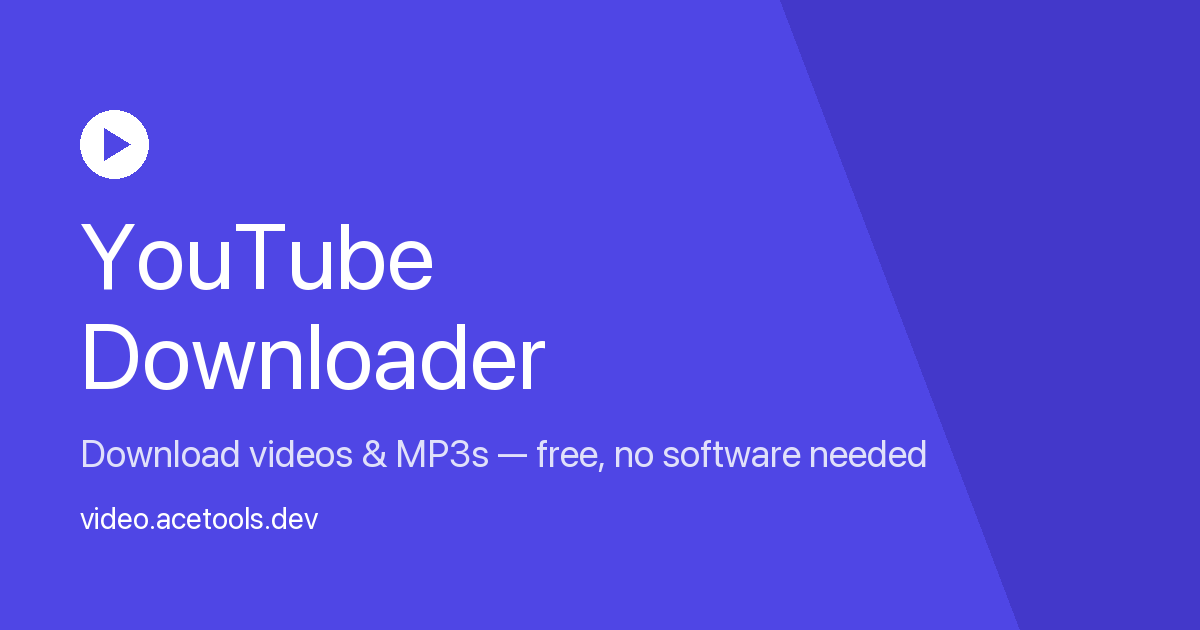
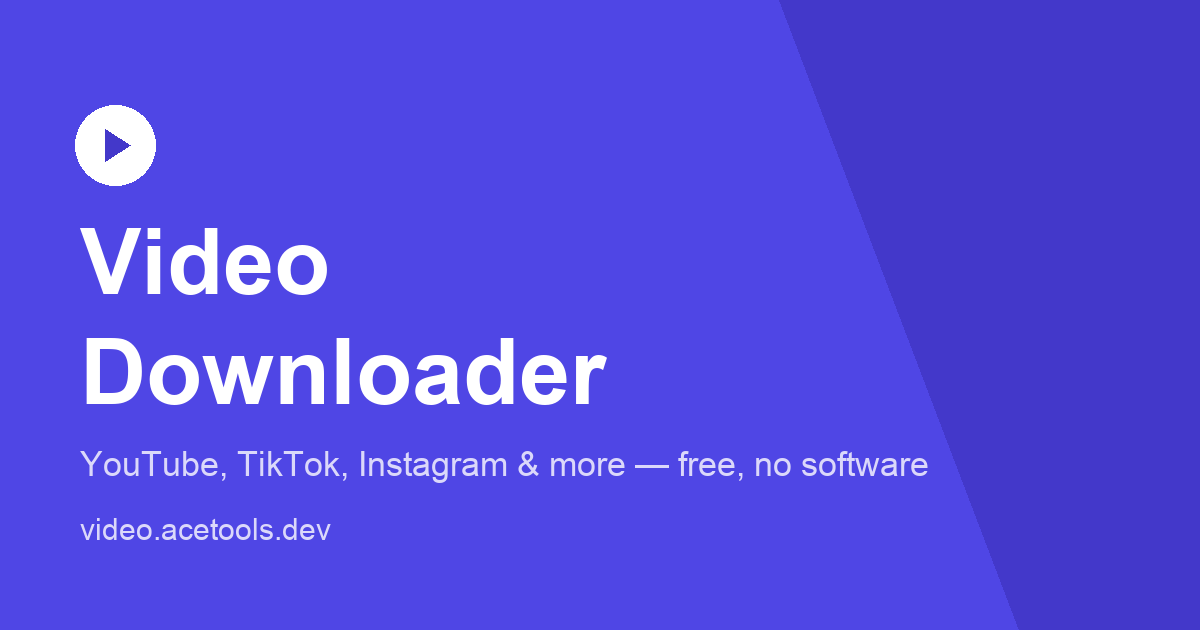
Rebrand to Video Downloader and advertise multi-site support
The app already downloads from any site yt-dlp supports, not just
YouTube, so branding/SEO/copy now reflect that: renamed across all
templates, updated title/meta/OG/twitter tags and JSON-LD, added a
supported-sites badge row and updated the og:image graphic
(YouTube, TikTok, Instagram, Facebook, Twitter/X, Vimeo, SoundCloud,
Dailymotion).

diff --git a/templates/index.html b/templates/index.html
@@ -7,29 +7,29 @@
 <link rel="icon" type="image/png" sizes="32x32" href="{{ url_for('static', filename='favicon-32x32.png') }}">
 <link rel="icon" type="image/png" sizes="16x16" href="{{ url_for('static', filename='favicon-16x16.png') }}">
 <link rel="apple-touch-icon" sizes="180x180" href="{{ url_for('static', filename='apple-touch-icon.png') }}">
-<title>YouTube Downloader &mdash; Download YouTube Videos &amp; MP3s Free</title>
-<meta name="description" content="Download YouTube videos and audio (MP3) free, in the resolution you want. No software to install &mdash; paste a link and download instantly. Playlist support for subscribers.">
-<meta name="keywords" content="youtube downloader, youtube to mp3, youtube video downloader, download youtube videos, youtube to mp4, youtube playlist downloader">
+<title>Video Downloader &mdash; Download Videos from YouTube, TikTok, Instagram &amp; More</title>
+<meta name="description" content="Download videos and audio (MP3) free from YouTube, TikTok, Instagram, Facebook, Twitter/X, Vimeo, SoundCloud, and Dailymotion, in the resolution you want. No software to install &mdash; paste a link and download instantly. Playlist support for subscribers.">
+<meta name="keywords" content="video downloader, youtube downloader, tiktok downloader, instagram video downloader, facebook video downloader, twitter video downloader, vimeo downloader, video to mp3, download videos online">
 <link rel="canonical" href="{{ base_url }}/">
 
 <meta property="og:type" content="website">
-<meta property="og:title" content="YouTube Downloader — Download YouTube Videos & MP3s Free">
-<meta property="og:description" content="Download YouTube videos and audio (MP3) free, in the resolution you want. No software to install — paste a link and download instantly.">
+<meta property="og:title" content="Video Downloader — Download Videos from YouTube, TikTok, Instagram & More">
+<meta property="og:description" content="Download videos and audio (MP3) free from YouTube, TikTok, Instagram, Facebook, Twitter/X, Vimeo, SoundCloud, and Dailymotion. No software to install — paste a link and download instantly.">
 <meta property="og:url" content="{{ base_url }}/">
 <meta property="og:image" content="{{ base_url }}/static/og-image.png">
 <meta property="og:image:width" content="1200">
 <meta property="og:image:height" content="630">
 
 <meta name="twitter:card" content="summary_large_image">
-<meta name="twitter:title" content="YouTube Downloader — Download YouTube Videos & MP3s Free">
-<meta name="twitter:description" content="Download YouTube videos and audio (MP3) free, in the resolution you want. No software to install — paste a link and download instantly.">
+<meta name="twitter:title" content="Video Downloader — Download Videos from YouTube, TikTok, Instagram & More">
+<meta name="twitter:description" content="Download videos and audio (MP3) free from YouTube, TikTok, Instagram, Facebook, Twitter/X, Vimeo, SoundCloud, and Dailymotion. No software to install — paste a link and download instantly.">
 <meta name="twitter:image" content="{{ base_url }}/static/og-image.png">
 
 <script type="application/ld+json">
 {
   "@context": "https://schema.org",
   "@type": "WebApplication",
-  "name": "YouTube Downloader",
+  "name": "Video Downloader",
   "url": "{{ base_url }}/",
   "image": "{{ base_url }}/static/og-image.png",
   "applicationCategory": "MultimediaApplication",
@@ -39,7 +39,7 @@
     "price": "0",
     "priceCurrency": "USD"
   },
-  "description": "Download YouTube videos and audio (MP3) free, in the resolution you want. No software to install."
+  "description": "Download videos and audio (MP3) free from YouTube, TikTok, Instagram, Facebook, Twitter/X, Vimeo, SoundCloud, and Dailymotion, in the resolution you want. No software to install."
 }
 </script>
 
@@ -59,7 +59,7 @@
 <body>
   <div class="nav">
     <div class="nav-inner">
-      <a href="{{ url_for('index') }}" class="brand"><span class="brand-mark"></span>YouTube Downloader</a>
+      <a href="{{ url_for('index') }}" class="brand"><span class="brand-mark"></span>Video Downloader</a>
       <span class="nav-links">
         {% if current_user.is_authenticated %}
           {{ current_user.email }} <a href="{{ url_for('history') }}">History</a> <a href="{{ url_for('billing.account') }}">Account</a> <a href="{{ url_for('donations.donate') }}">Donate</a> <a href="{{ url_for('reports.report_issue') }}">Report an issue</a> <a href="{{ url_for('auth.logout') }}">Log out</a>
@@ -72,12 +72,23 @@
 
   <div class="page page-wide hero">
     <div class="badge-pill"><span class="dot"></span>No installs &middot; files deleted after download</div>
-    <h1>Download any YouTube video<span class="accent-dot">.</span></h1>
+    <h1>Download videos from anywhere<span class="accent-dot">.</span></h1>
     <p class="subtitle">Paste a link, pick MP4 or MP3, and it starts instantly with a live progress bar.</p>
+
+    <div class="chips" style="justify-content: center; margin-top: 10px;">
+      <span class="chip">YouTube</span>
+      <span class="chip">TikTok</span>
+      <span class="chip">Instagram</span>
+      <span class="chip">Facebook</span>
+      <span class="chip">Twitter / X</span>
+      <span class="chip">Vimeo</span>
+      <span class="chip">SoundCloud</span>
+      <span class="chip">Dailymotion</span>
+    </div>
 
     <div class="card tool-card">
       <div class="row" id="urlRow">
-        <input type="text" id="url" placeholder="https://www.youtube.com/watch?v=...">
+        <input type="text" id="url" placeholder="Paste a video URL — YouTube, TikTok, Instagram, and more">
         <button id="continueBtn">Continue</button>
       </div>
 
@@ -183,23 +194,24 @@
     <section style="margin-top: 48px; text-align: left;">
       <h2 style="font-size: 1.2rem; font-weight: 600;">How it works</h2>
       <p class="subtitle">
-        Paste any YouTube video URL above and choose a format &mdash; MP4 video in the resolution
-        you want, or MP3 audio only. Click Download and the file starts processing right away,
-        with a live progress bar so you can see exactly how far along it is. No account, no
-        software installs, no browser extensions.
+        Paste a video URL above from YouTube, TikTok, Instagram, Facebook, Twitter/X, Vimeo,
+        SoundCloud, or Dailymotion and choose a format &mdash; MP4 video in the resolution you
+        want, or MP3 audio only. Click Download and the file starts processing right away, with
+        a live progress bar so you can see exactly how far along it is. No account, no software
+        installs, no browser extensions.
       </p>
 
       <h2 style="font-size: 1.2rem; font-weight: 600;">Video and audio downloads</h2>
       <p class="subtitle">
-        Download YouTube videos as MP4 files in the best available quality, or extract just the
-        audio as an MP3. Free accounts get a handful of downloads per day at a generous length
-        limit &mdash; enough for the vast majority of single videos.
+        Download videos as MP4 files in the best available quality, or extract just the audio as
+        an MP3. Free accounts get a handful of downloads per day at a generous length limit
+        &mdash; enough for the vast majority of single videos.
       </p>
 
       <h2 style="font-size: 1.2rem; font-weight: 600;">Playlist downloads</h2>
       <p class="subtitle">
-        Subscribers can download entire YouTube playlists in one go, with no daily limit and no
-        length cap on individual videos.
+        Subscribers can download entire playlists in one go, with no daily limit and no length
+        cap on individual videos.
       </p>
     </section>
   </div>

diff --git a/templates/report_issue.html b/templates/report_issue.html
@@ -8,7 +8,7 @@
 <link rel="icon" type="image/png" sizes="16x16" href="{{ url_for('static', filename='favicon-16x16.png') }}">
 <link rel="apple-touch-icon" sizes="180x180" href="{{ url_for('static', filename='apple-touch-icon.png') }}">
 <meta name="robots" content="noindex, follow">
-<title>Report an issue - YouTube Downloader</title>
+<title>Report an issue - Video Downloader</title>
 <link rel="preconnect" href="https://fonts.googleapis.com">
 <link rel="preconnect" href="https://fonts.gstatic.com" crossorigin>
 <link href="https://fonts.googleapis.com/css2?family=Space+Grotesk:wght@500;600;700&family=IBM+Plex+Sans:wght@400;500;600&family=IBM+Plex+Mono:wght@400;500&display=swap" rel="stylesheet">
@@ -17,7 +17,7 @@
 <body>
   <div class="nav">
     <div class="nav-inner">
-      <a href="{{ url_for('index') }}" class="brand"><span class="brand-mark"></span>YouTube Downloader</a>
+      <a href="{{ url_for('index') }}" class="brand"><span class="brand-mark"></span>Video Downloader</a>
       <span class="nav-links">
         {{ current_user.email }} <a href="{{ url_for('history') }}">History</a> <a href="{{ url_for('billing.account') }}">Account</a> <a href="{{ url_for('reports.report_issue') }}">Report an issue</a> <a href="{{ url_for('auth.logout') }}">Log out</a>
       </span>

diff --git a/templates/account.html b/templates/account.html
@@ -8,7 +8,7 @@
 <link rel="icon" type="image/png" sizes="16x16" href="{{ url_for('static', filename='favicon-16x16.png') }}">
 <link rel="apple-touch-icon" sizes="180x180" href="{{ url_for('static', filename='apple-touch-icon.png') }}">
 <meta name="robots" content="noindex, follow">
-<title>Account - YouTube Downloader</title>
+<title>Account - Video Downloader</title>
 <link rel="preconnect" href="https://fonts.googleapis.com">
 <link rel="preconnect" href="https://fonts.gstatic.com" crossorigin>
 <link href="https://fonts.googleapis.com/css2?family=Space+Grotesk:wght@500;600;700&family=IBM+Plex+Sans:wght@400;500;600&family=IBM+Plex+Mono:wght@400;500&display=swap" rel="stylesheet">
@@ -17,7 +17,7 @@
 <body>
   <div class="nav">
     <div class="nav-inner">
-      <a href="{{ url_for('index') }}" class="brand"><span class="brand-mark"></span>YouTube Downloader</a>
+      <a href="{{ url_for('index') }}" class="brand"><span class="brand-mark"></span>Video Downloader</a>
       <span class="nav-links">
         {{ current_user.email }} <a href="{{ url_for('history') }}">History</a> <a href="{{ url_for('billing.account') }}">Account</a> <a href="{{ url_for('reports.report_issue') }}">Report an issue</a> <a href="{{ url_for('auth.logout') }}">Log out</a>
       </span>

diff --git a/templates/history.html b/templates/history.html
@@ -8,7 +8,7 @@
 <link rel="icon" type="image/png" sizes="16x16" href="{{ url_for('static', filename='favicon-16x16.png') }}">
 <link rel="apple-touch-icon" sizes="180x180" href="{{ url_for('static', filename='apple-touch-icon.png') }}">
 <meta name="robots" content="noindex, follow">
-<title>History - YouTube Downloader</title>
+<title>History - Video Downloader</title>
 <link rel="preconnect" href="https://fonts.googleapis.com">
 <link rel="preconnect" href="https://fonts.gstatic.com" crossorigin>
 <link href="https://fonts.googleapis.com/css2?family=Space+Grotesk:wght@500;600;700&family=IBM+Plex+Sans:wght@400;500;600&family=IBM+Plex+Mono:wght@400;500&display=swap" rel="stylesheet">
@@ -17,7 +17,7 @@
 <body>
   <div class="nav">
     <div class="nav-inner">
-      <a href="{{ url_for('index') }}" class="brand"><span class="brand-mark"></span>YouTube Downloader</a>
+      <a href="{{ url_for('index') }}" class="brand"><span class="brand-mark"></span>Video Downloader</a>
       <span class="nav-links">
         {{ current_user.email }} <a href="{{ url_for('history') }}">History</a> <a href="{{ url_for('billing.account') }}">Account</a> <a href="{{ url_for('reports.report_issue') }}">Report an issue</a> <a href="{{ url_for('auth.logout') }}">Log out</a>
       </span>

diff --git a/templates/admin.html b/templates/admin.html
@@ -8,7 +8,7 @@
 <link rel="icon" type="image/png" sizes="16x16" href="{{ url_for('static', filename='favicon-16x16.png') }}">
 <link rel="apple-touch-icon" sizes="180x180" href="{{ url_for('static', filename='apple-touch-icon.png') }}">
 <meta name="robots" content="noindex, nofollow">
-<title>Admin - YouTube Downloader</title>
+<title>Admin - Video Downloader</title>
 <link rel="preconnect" href="https://fonts.googleapis.com">
 <link rel="preconnect" href="https://fonts.gstatic.com" crossorigin>
 <link href="https://fonts.googleapis.com/css2?family=Space+Grotesk:wght@500;600;700&family=IBM+Plex+Sans:wght@400;500;600&family=IBM+Plex+Mono:wght@400;500&display=swap" rel="stylesheet">
@@ -20,7 +20,7 @@
 <body>
   <div class="nav">
     <div class="nav-inner">
-      <a href="{{ url_for('index') }}" class="brand"><span class="brand-mark"></span>YouTube Downloader</a>
+      <a href="{{ url_for('index') }}" class="brand"><span class="brand-mark"></span>Video Downloader</a>
       <span class="nav-links">
         {{ current_user.email }} <a href="{{ url_for('history') }}">History</a> <a href="{{ url_for('billing.account') }}">Account</a> <a href="{{ url_for('reports.report_issue') }}">Report an issue</a> <a href="{{ url_for('auth.logout') }}">Log out</a>
       </span>

diff --git a/templates/donate.html b/templates/donate.html
@@ -8,7 +8,7 @@
 <link rel="icon" type="image/png" sizes="16x16" href="{{ url_for('static', filename='favicon-16x16.png') }}">
 <link rel="apple-touch-icon" sizes="180x180" href="{{ url_for('static', filename='apple-touch-icon.png') }}">
 <meta name="robots" content="noindex, follow">
-<title>Donate - YouTube Downloader</title>
+<title>Donate - Video Downloader</title>
 <link rel="preconnect" href="https://fonts.googleapis.com">
 <link rel="preconnect" href="https://fonts.gstatic.com" crossorigin>
 <link href="https://fonts.googleapis.com/css2?family=Space+Grotesk:wght@500;600;700&family=IBM+Plex+Sans:wght@400;500;600&family=IBM+Plex+Mono:wght@400;500&display=swap" rel="stylesheet">
@@ -17,7 +17,7 @@
 <body>
   <div class="nav">
     <div class="nav-inner">
-      <a href="{{ url_for('index') }}" class="brand"><span class="brand-mark"></span>YouTube Downloader</a>
+      <a href="{{ url_for('index') }}" class="brand"><span class="brand-mark"></span>Video Downloader</a>
       <span class="nav-links">
         {% if current_user.is_authenticated %}
           {{ current_user.email }} <a href="{{ url_for('history') }}">History</a> <a href="{{ url_for('billing.account') }}">Account</a> <a href="{{ url_for('auth.logout') }}">Log out</a>

diff --git a/templates/admin_ads.html b/templates/admin_ads.html
@@ -8,7 +8,7 @@
 <link rel="icon" type="image/png" sizes="16x16" href="{{ url_for('static', filename='favicon-16x16.png') }}">
 <link rel="apple-touch-icon" sizes="180x180" href="{{ url_for('static', filename='apple-touch-icon.png') }}">
 <meta name="robots" content="noindex, nofollow">
-<title>Manage Ads - YouTube Downloader</title>
+<title>Manage Ads - Video Downloader</title>
 <link rel="preconnect" href="https://fonts.googleapis.com">
 <link rel="preconnect" href="https://fonts.gstatic.com" crossorigin>
 <link href="https://fonts.googleapis.com/css2?family=Space+Grotesk:wght@500;600;700&family=IBM+Plex+Sans:wght@400;500;600&family=IBM+Plex+Mono:wght@400;500&display=swap" rel="stylesheet">
@@ -29,7 +29,7 @@
 <body>
   <div class="nav">
     <div class="nav-inner">
-      <a href="{{ url_for('index') }}" class="brand"><span class="brand-mark"></span>YouTube Downloader</a>
+      <a href="{{ url_for('index') }}" class="brand"><span class="brand-mark"></span>Video Downloader</a>
       <span class="nav-links">
         {{ current_user.email }} <a href="{{ url_for('admin.dashboard') }}">Admin</a> <a href="{{ url_for('auth.logout') }}">Log out</a>
       </span>

diff --git a/templates/forgot_password.html b/templates/forgot_password.html
@@ -8,7 +8,7 @@
 <link rel="icon" type="image/png" sizes="16x16" href="{{ url_for('static', filename='favicon-16x16.png') }}">
 <link rel="apple-touch-icon" sizes="180x180" href="{{ url_for('static', filename='apple-touch-icon.png') }}">
 <meta name="robots" content="noindex, follow">
-<title>Forgot password - YouTube Downloader</title>
+<title>Forgot password - Video Downloader</title>
 <link rel="preconnect" href="https://fonts.googleapis.com">
 <link rel="preconnect" href="https://fonts.gstatic.com" crossorigin>
 <link href="https://fonts.googleapis.com/css2?family=Space+Grotesk:wght@500;600;700&family=IBM+Plex+Sans:wght@400;500;600&family=IBM+Plex+Mono:wght@400;500&display=swap" rel="stylesheet">
@@ -17,7 +17,7 @@
 <body>
   <div class="nav">
     <div class="nav-inner">
-      <a href="{{ url_for('index') }}" class="brand"><span class="brand-mark"></span>YouTube Downloader</a>
+      <a href="{{ url_for('index') }}" class="brand"><span class="brand-mark"></span>Video Downloader</a>
     </div>
   </div>
 

diff --git a/templates/reset_password.html b/templates/reset_password.html
@@ -8,7 +8,7 @@
 <link rel="icon" type="image/png" sizes="16x16" href="{{ url_for('static', filename='favicon-16x16.png') }}">
 <link rel="apple-touch-icon" sizes="180x180" href="{{ url_for('static', filename='apple-touch-icon.png') }}">
 <meta name="robots" content="noindex, follow">
-<title>Reset password - YouTube Downloader</title>
+<title>Reset password - Video Downloader</title>
 <link rel="preconnect" href="https://fonts.googleapis.com">
 <link rel="preconnect" href="https://fonts.gstatic.com" crossorigin>
 <link href="https://fonts.googleapis.com/css2?family=Space+Grotesk:wght@500;600;700&family=IBM+Plex+Sans:wght@400;500;600&family=IBM+Plex+Mono:wght@400;500&display=swap" rel="stylesheet">
@@ -17,7 +17,7 @@
 <body>
   <div class="nav">
     <div class="nav-inner">
-      <a href="{{ url_for('index') }}" class="brand"><span class="brand-mark"></span>YouTube Downloader</a>
+      <a href="{{ url_for('index') }}" class="brand"><span class="brand-mark"></span>Video Downloader</a>
     </div>
   </div>
 

diff --git a/templates/donate_thanks.html b/templates/donate_thanks.html
@@ -8,7 +8,7 @@
 <link rel="icon" type="image/png" sizes="16x16" href="{{ url_for('static', filename='favicon-16x16.png') }}">
 <link rel="apple-touch-icon" sizes="180x180" href="{{ url_for('static', filename='apple-touch-icon.png') }}">
 <meta name="robots" content="noindex, follow">
-<title>Thank you - YouTube Downloader</title>
+<title>Thank you - Video Downloader</title>
 <link rel="preconnect" href="https://fonts.googleapis.com">
 <link rel="preconnect" href="https://fonts.gstatic.com" crossorigin>
 <link href="https://fonts.googleapis.com/css2?family=Space+Grotesk:wght@500;600;700&family=IBM+Plex+Sans:wght@400;500;600&family=IBM+Plex+Mono:wght@400;500&display=swap" rel="stylesheet">
@@ -17,7 +17,7 @@
 <body>
   <div class="nav">
     <div class="nav-inner">
-      <a href="{{ url_for('index') }}" class="brand"><span class="brand-mark"></span>YouTube Downloader</a>
+      <a href="{{ url_for('index') }}" class="brand"><span class="brand-mark"></span>Video Downloader</a>
     </div>
   </div>
 

diff --git a/templates/signup.html b/templates/signup.html
@@ -8,7 +8,7 @@
 <link rel="icon" type="image/png" sizes="16x16" href="{{ url_for('static', filename='favicon-16x16.png') }}">
 <link rel="apple-touch-icon" sizes="180x180" href="{{ url_for('static', filename='apple-touch-icon.png') }}">
 <meta name="robots" content="noindex, follow">
-<title>Sign up - YouTube Downloader</title>
+<title>Sign up - Video Downloader</title>
 <link rel="preconnect" href="https://fonts.googleapis.com">
 <link rel="preconnect" href="https://fonts.gstatic.com" crossorigin>
 <link href="https://fonts.googleapis.com/css2?family=Space+Grotesk:wght@500;600;700&family=IBM+Plex+Sans:wght@400;500;600&family=IBM+Plex+Mono:wght@400;500&display=swap" rel="stylesheet">
@@ -17,7 +17,7 @@
 <body>
   <div class="nav">
     <div class="nav-inner">
-      <a href="{{ url_for('index') }}" class="brand"><span class="brand-mark"></span>YouTube Downloader</a>
+      <a href="{{ url_for('index') }}" class="brand"><span class="brand-mark"></span>Video Downloader</a>
     </div>
   </div>
 

diff --git a/templates/login.html b/templates/login.html
@@ -8,7 +8,7 @@
 <link rel="icon" type="image/png" sizes="16x16" href="{{ url_for('static', filename='favicon-16x16.png') }}">
 <link rel="apple-touch-icon" sizes="180x180" href="{{ url_for('static', filename='apple-touch-icon.png') }}">
 <meta name="robots" content="noindex, follow">
-<title>Log in - YouTube Downloader</title>
+<title>Log in - Video Downloader</title>
 <link rel="preconnect" href="https://fonts.googleapis.com">
 <link rel="preconnect" href="https://fonts.gstatic.com" crossorigin>
 <link href="https://fonts.googleapis.com/css2?family=Space+Grotesk:wght@500;600;700&family=IBM+Plex+Sans:wght@400;500;600&family=IBM+Plex+Mono:wght@400;500&display=swap" rel="stylesheet">
@@ -17,7 +17,7 @@
 <body>
   <div class="nav">
     <div class="nav-inner">
-      <a href="{{ url_for('index') }}" class="brand"><span class="brand-mark"></span>YouTube Downloader</a>
+      <a href="{{ url_for('index') }}" class="brand"><span class="brand-mark"></span>Video Downloader</a>
     </div>
   </div>
 
